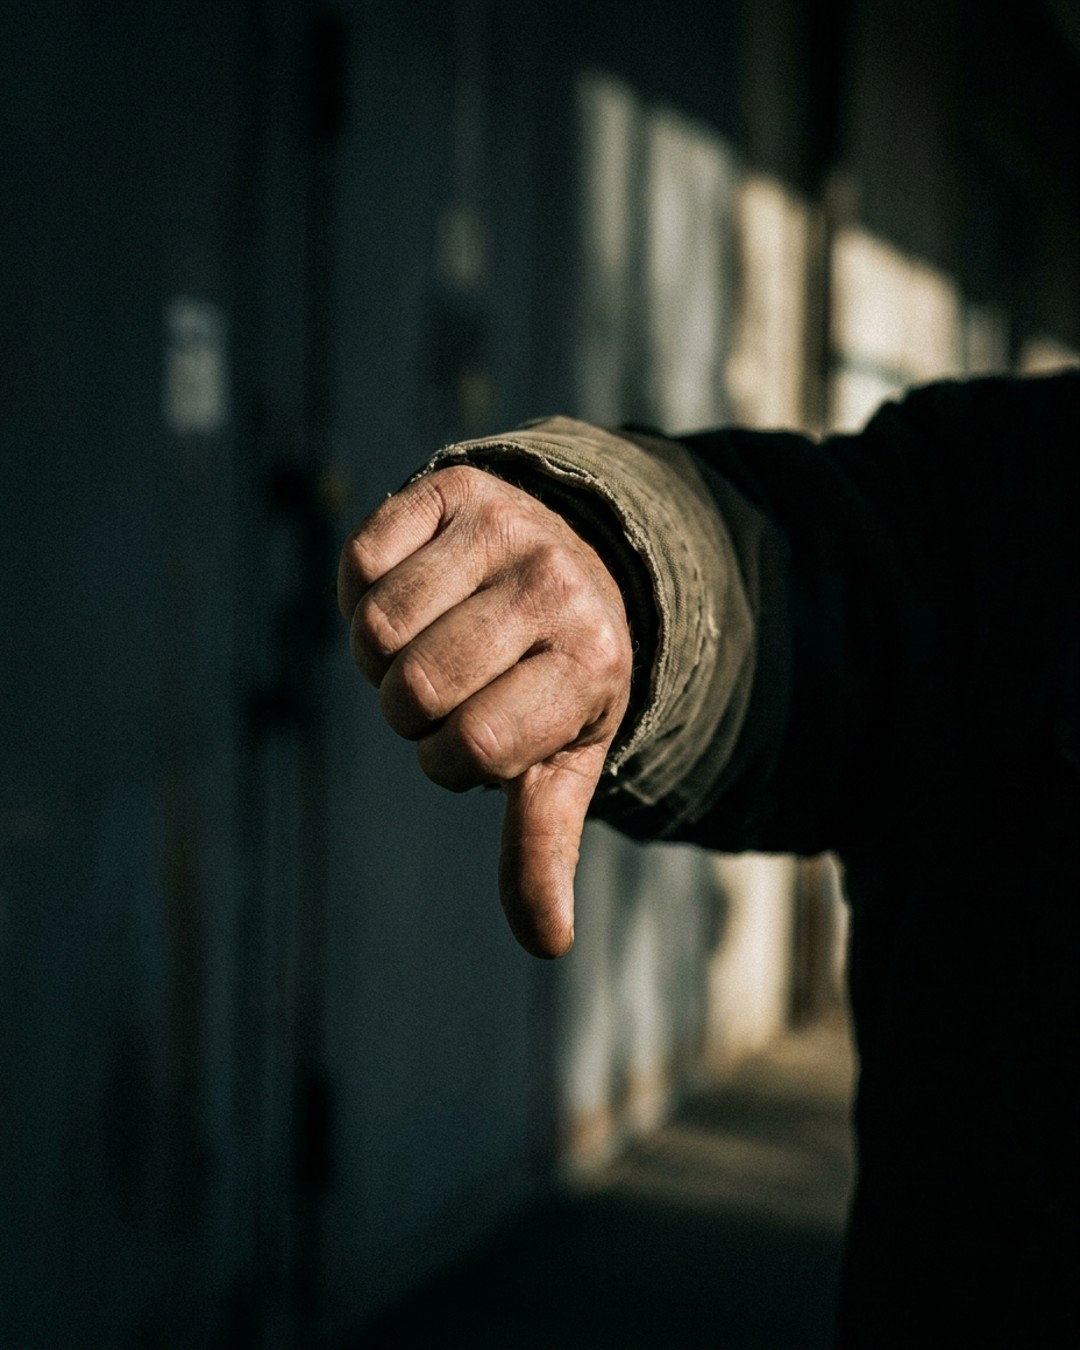
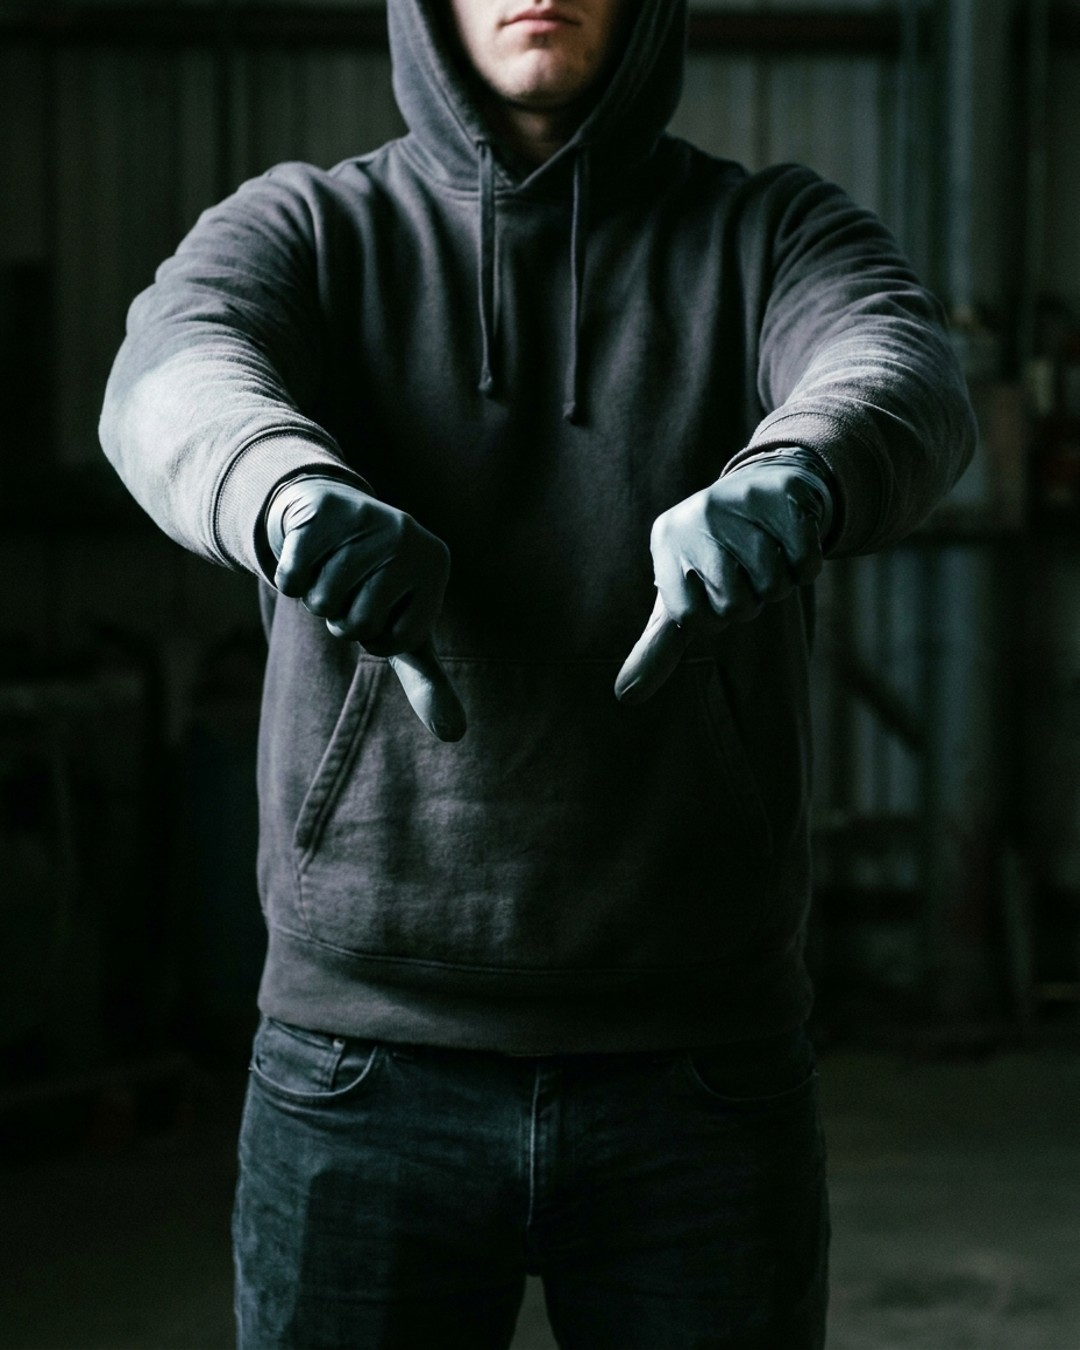
desaprovacao v2 ESCANCARADA (dono reprovou a sutil) + slug novo VERGONHA: polegarzao com luz vermelha + dois polegares + maos-na-cara facepalm total x2
Feedback do dono: 'desaprovacao ta muito ruim, faz BEM escancarado'. Licao de capa de feed: o gesto tem 0,5s pra comunicar — silhueta artistica nao le em miniatura; polegar gigante le. 4 fotos novas: desaprovacao (polegar pra baixo GIGANTE luz vermelha + pessoa com 2 polegares sem rosto no quadro) e vergonha (facepalm de duas maos cobrindo o rosto inteiro x2 — o gesto esconde a identidade sozinho). Regex separada: vergonh|vexame|constrang|papelao|mico -> vergonha; revolt|indign|absurdo|inaceitavel|impunidade|desaprov|repudio -> desaprovacao. Smoke 4/4.

diff --git a/genericbg.py b/genericbg.py
@@ -123,7 +123,9 @@ _SITUACOES = [
     # 😤 DESAPROVAÇÃO (ideia do dono, 20/jul): revolta/indignação/vergonha — o facepalm.
     # Por último de propósito: se o título tem o FATO ("revoltados com o buraco"), a foto do
     # fato (buraco) ganha; o facepalm cobre quando a emoção É a notícia.
-    (r"revolt|indign|vergonha|absurdo|inaceit[áa]vel|impunidade", "desaprovacao"),
+    # v2 escancarada (20/jul — dono reprovou a sutil): polegarZÃO 👎 e mãos-na-cara 🫣
+    (r"vergonh|vexame|constrang|papel[ãa]o|\bmico\b", "vergonha"),
+    (r"revolt|indign|absurdo|inaceit[áa]vel|impunidade|desaprov|rep[úu]dio", "desaprovacao"),
 ]
 
 # CATEGORIA (fallback quando nada do título bateu) → slug.